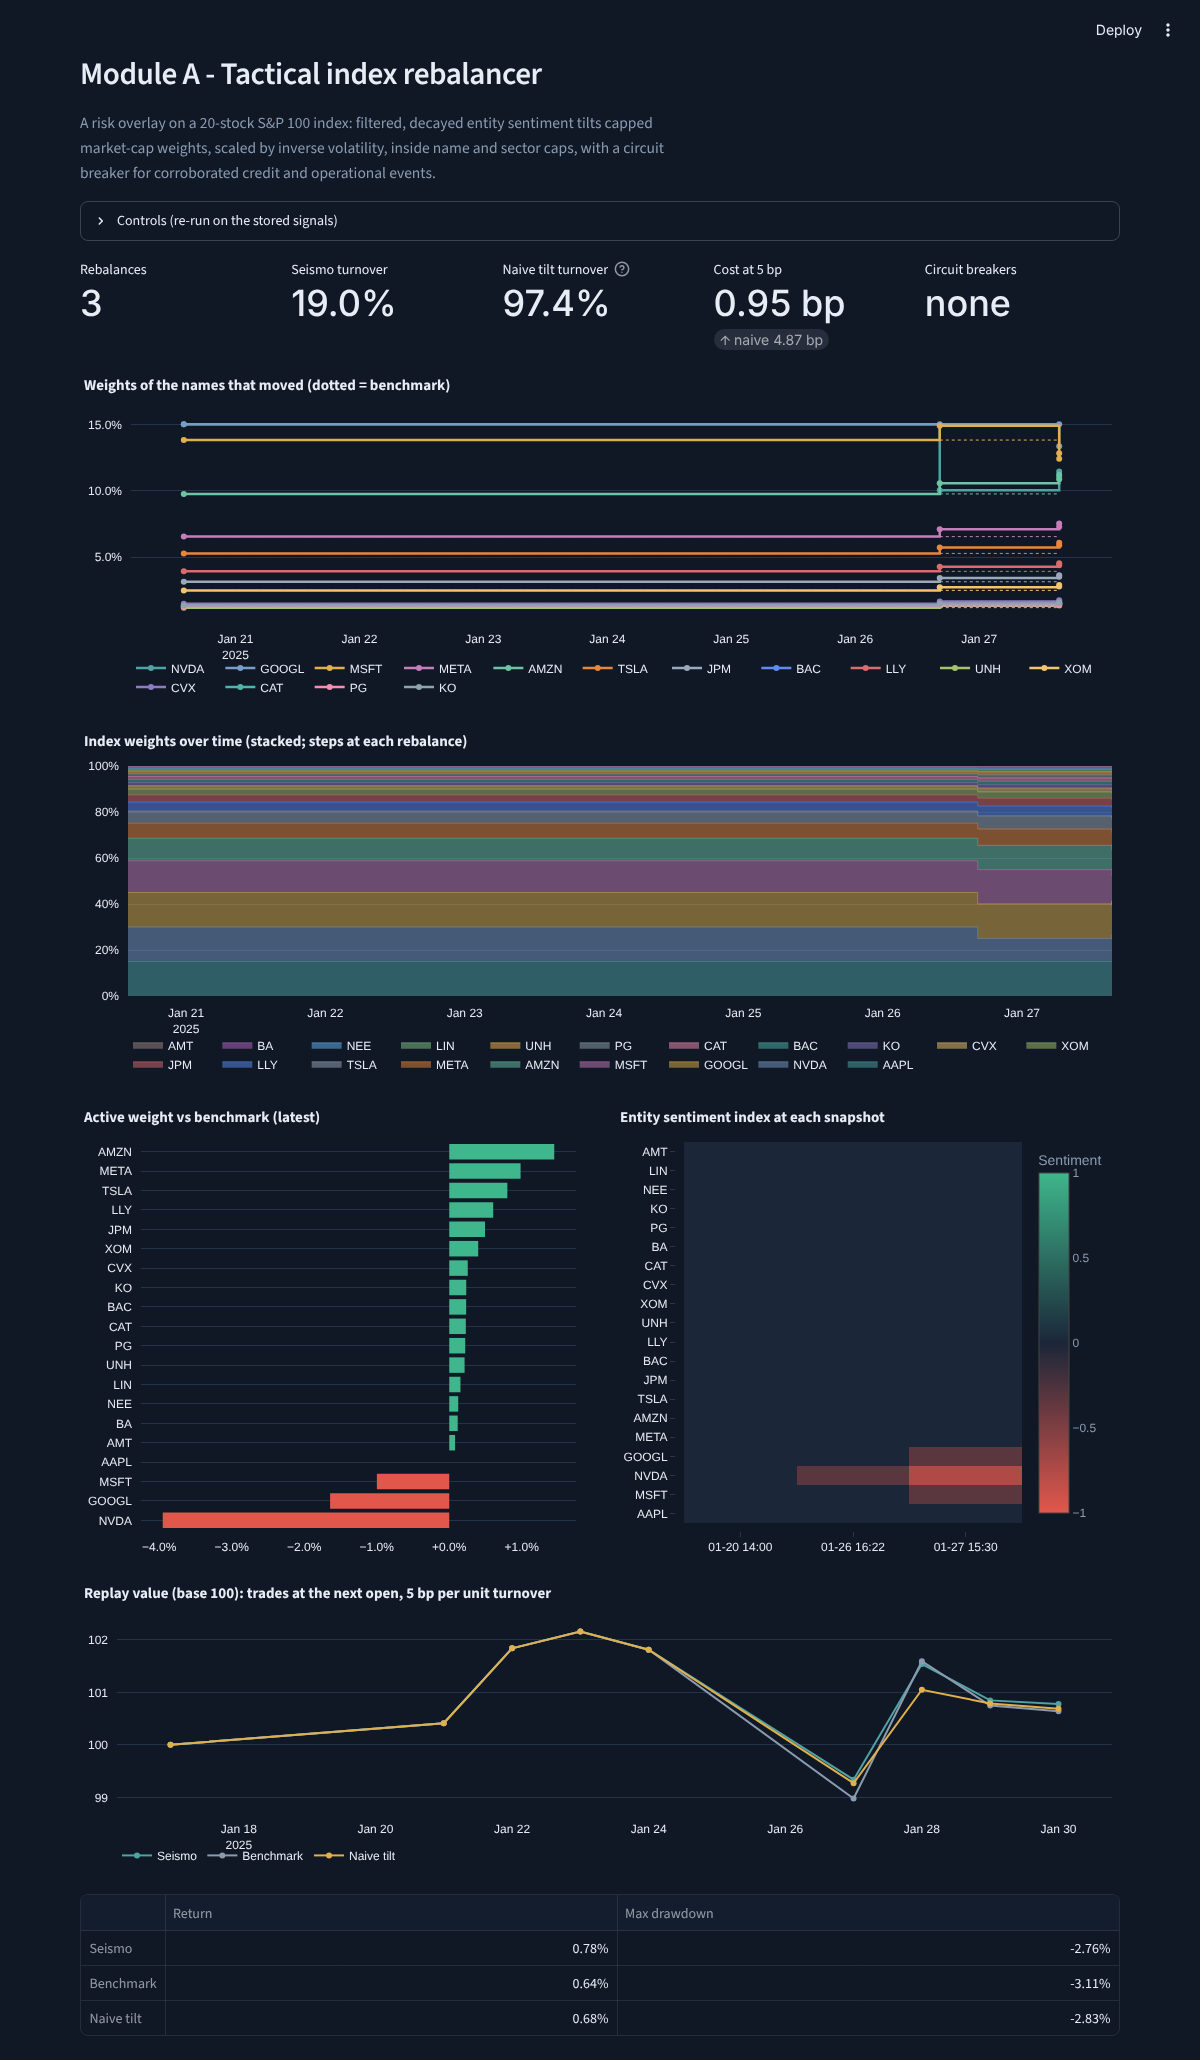
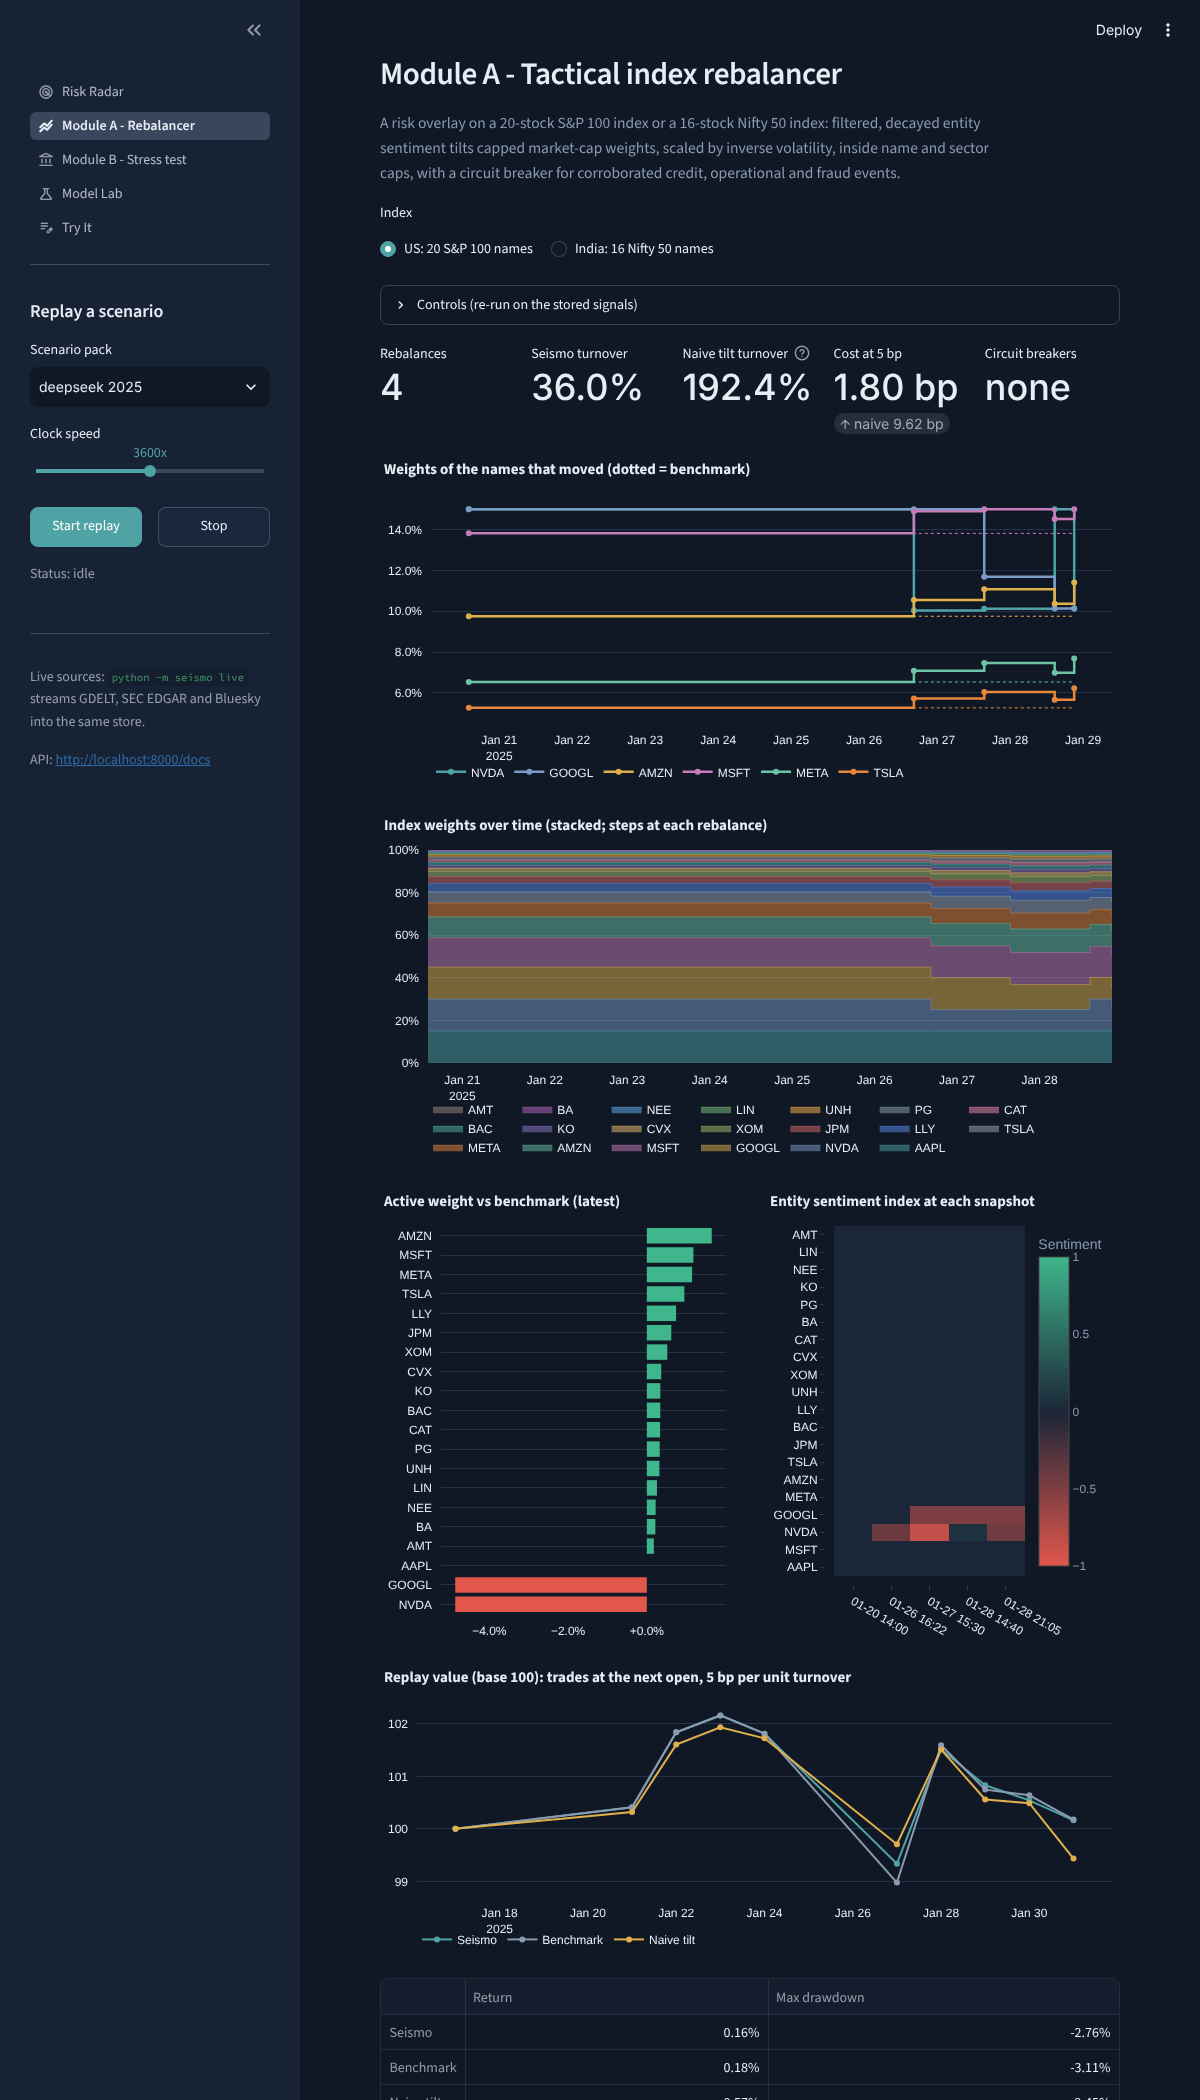
docs: model cards for the SEntFiN sentiment model, rules-v1 and contested denials; data cards; refreshed screenshots
Claude-Session: https://claude.ai/code/session_01VrPz1LG4mtA545VKJqXxte

diff --git a/docs/cards/model_sentiment.md b/docs/cards/model_sentiment.md
@@ -1,7 +1,26 @@
 # Model card: entity-level sentiment
 
-**Intended use.** Score how a piece of text reads for one named entity, from -1 (negative) to +1 (positive), with a confidence (1 minus normalised entropy).
-**How.** The engine scores only the sentence (and, when two companies share a sentence, the clause) that mentions the entity, so "Microsoft gains as Google loses" yields +/- rather than one blended score. Backends: `ProsusAI/finbert` (optional) or `lexicon-v2`: finance word lists, doubled weights for acute-stress words, negation, intensifiers and signed percentage moves.
-**Evaluation.** `make results`, gold set (author-labelled, 50 headlines): entity-window sign accuracy vs whole-document score. Financial PhraseBank evaluation needs Hugging Face access and is listed as next work.
-**Limitations.** The lexicon misses sarcasm and target-dependent phrases ("gains traction" for a rival). Not fine-tuned in this build; the target-masked fine-tune (SEntFiN, FiQA) is the planned upgrade.
-**Monitoring.** Model Lab shows the backend name on every signal (`model_versions`).
+**Intended use.** Score how a piece of text reads for one named company, from -1 (negative) to +1 (positive), with a confidence (1 minus normalised entropy). "Infosys gains while TCS slides" must give Infosys a positive score and TCS a negative one.
+
+**Model (default): `sentfin-target-lr-v1`.** A target-masked multinomial logistic regression trained on **SEntFiN 1.0** (Sinha et al., 2023): 10,709 Economic Times headlines with 14,345 entity-level labels.
+- The company being scored becomes the token `TGT`, every other linked company `OTH`, so the model learns relative position ("TGT beats OTH") rather than company names.
+- Features: word 1-2-grams of the masked sentence; the same words tagged "near" when within three tokens of `TGT`; the finance lexicon's three scores.
+- Weights are stored as JSON (`models/sentiment_target.json`) and scored in pure Python; a check at training time confirms the JSON scorer reproduces scikit-learn to about 1e-7.
+- CPU only, about 1 ms per document, no network, no GPU.
+
+**Evaluation (held-out test, `make sentiment`).** 80/20 by headline, seed 2026; C=8.0 by grouped 5-fold CV on train (macro-F1 0.7993).
+
+| System | Accuracy | Macro-F1 | Macro-F1, multi-entity | Macro-F1, conflicting |
+| --- | --- | --- | --- | --- |
+| Lexicon, whole headline (naive) | 0.610 | 0.608 | 0.562 | 0.456 |
+| Lexicon, entity window (Seismo v1) | 0.584 | 0.575 | 0.498 | 0.469 |
+| Trained, no target masking (ablation) | 0.783 | 0.785 | 0.719 | 0.508 |
+| Trained, target-masked (shipped) | 0.821 | 0.820 | 0.792 | 0.691 |
+
+Masking is what makes the model entity-aware: on headlines whose entities move in opposite directions it lifts macro-F1 from 0.51 (same model without masking) to 0.69. For reference, the SEntFiN paper reports about 93-94% for fine-tuned FinBERT and RoBERTa on GPU and about 85% for its best lexicon + gradient-boosting system; this model trades some accuracy for transparency and CPU speed.
+
+**Fallbacks.** `lexicon-v2` (finance word lists, doubled weights for acute-stress words, negation, intensifiers, signed percentage moves) runs in CI and whenever the model file is absent. `ProsusAI/finbert` is available on request (`sentiment.backend: finbert`).
+
+**Limitations.** Trained on Indian business headlines from 2011-2015, applied to US and Indian news; headlines only, so long articles are scored sentence by sentence. Sarcasm and multi-sentence reasoning are out of reach. Next: fine-tune a small transformer with the same masking.
+
+**Monitoring.** Every signal records the backend in `model_versions`; Model Lab shows the evaluation table.

diff --git a/docs/cards/data_cards.md b/docs/cards/data_cards.md
@@ -3,12 +3,16 @@
 | Data | Source | Licence | Synthetic | Notes |
 | --- | --- | --- | --- | --- |
 | `data/universe.csv` | SEC company_tickers.json for CIKs; aliases and issuer domains written by the author | Public / MIT | No | 20 S&P 100 names, 11 GICS sectors |
+| `data/universe_in.csv` | NSE symbols; aliases, domains and business group written by the author | Public / MIT | No | 16 Nifty 50 names (India index; Adani group tagged) |
 | `data/watchlist.csv` | Author | MIT | Partly | Regional banks for the SVB replay; "Harbor National Bank" is fictional |
-| `data/replay/svb_2023`, `deepseek_2025`, `tariff_2025` | Author, paraphrasing widely reported facts | MIT | Yes | Reconstructions; `.example` publishers (RFC 2606); invented social posts |
+| `data/replay/svb_2023`, `deepseek_2025`, `tariff_2025`, `adani_2023` | Author, paraphrasing widely reported facts | MIT | Yes | Reconstructions; `.example` publishers (RFC 2606); invented social posts |
 | `data/replay/red_team`, `quiet_day`, `demo_synthetic` | Author | MIT | Yes | Fictional |
+| `data/replay/*_gdelt.jsonl`, `data/gdelt/*.csv` | GDELT 2.0 event exports (15-minute files) | Free; cite GDELT | No | Real article URLs, publishers and GDELT timestamps for the SVB week, the Adani week and a quiet control week; headlines rebuilt from URL slugs |
+| `data/sentfin/SEntFiN-v1.1.csv` | SEntFiN 1.0 (Sinha et al., 2023), Kaggle | As published; research use with citation | No | 10,753 Economic Times headlines, 14,404 entity-level sentiment labels; trains the sentiment model |
 | `data/gold/headlines.jsonl` | Author | MIT | Yes | 50 labelled illustrative headlines |
 | `data/blotter/*` | `python -m seismo blotter` (seed 2026) | MIT | Yes | Invented exposures; public names only as obligors; internal ratings are synthetic, not agency ratings |
-| `data/market/prices_daily.csv`, `prices_open.csv`, `caps.csv` | Yahoo Finance via yfinance | Yahoo terms, research use | No | Fetched by `make data` |
+| `data/market/prices_daily.csv`, `prices_open.csv`, `shares_in.csv` | Yahoo Finance via yfinance | Yahoo terms, research use | No | US and NSE prices, Nifty 50, Nifty Bank; NSE shares outstanding. Fetched by `make data` |
+| `data/market/caps.csv` | SEC shares outstanding x last Yahoo close | Public / Yahoo terms | No | US benchmark caps |
 | `data/market/fred_daily.csv` | FRED (St. Louis Fed) | Public, cite FRED | No | Treasury curve, Baa/Aaa spreads, ICE BofA OAS where available |
 | `data/market/edgar_8k.csv` | SEC EDGAR submissions API | US government public data | No | 8-K item codes and acceptance times |
 | `data/market/analog_shocks.csv` | Computed by `make shocks` | MIT | No | Largest move per factor inside each crisis window |

diff --git a/docs/cards/model_gate_and_clusters.md b/docs/cards/model_gate_and_clusters.md
@@ -1,6 +1,8 @@
 # Model card: event clustering and the trigger gate
 
 **Clusters.** One entity and one event class within a rolling 24-hour chain form an event. Near-duplicates (MinHash >= 0.8) inherit the original publisher. Owner groups (e.g. WSJ, MarketWatch and Barron's) count once. Five or more accounts posting near-identical text within an hour form a coordinated group, which counts as one voice. Lookalike domains carrying a known brand are flagged and never corroborate.
-**Denials.** Denial language from an SEC filing, an authoritative wire or regulator, or the issuer's own domain marks the matched story as retracted; its weight in Module A drops to zero.
+**Denials.** Denial language from an SEC filing, an authoritative wire or regulator, or the issuer's own domain is matched to the live story it refers to. If the story is still unconfirmed (fewer than three independent newsrooms and no authoritative source), the denial retracts it and its weight in Module A drops to zero. If the story is already confirmed, the denial makes it *contested*: kept live, flagged, and still able to trigger. A rumour dies when it is denied; a confirmed story does not (the Adani group called the Hindenburg report baseless within hours, and its flagship shares then fell about 55%).
 **Gate.** TRIGGER only when impact >= 8, the class/subtype maps to an analog, confidence >= 0.7, and there are >= 3 independent publishers within 60 minutes or one authoritative source, and no denial. Otherwise REVIEW (human in the loop) or LOG.
-**Evaluation.** Replay scorecard in `make results`: triggers on SVB, DeepSeek and the tariff shock; holds and then retracts the red-team fake; no trigger on the quiet day; compared with a naive "10 x |sentiment| > 7" trigger.
+**Evaluation.** Replay scorecard in `make results`: triggers on SVB, DeepSeek, the tariff shock and Adani-Hindenburg (before the next NSE open, with the denial marked contested); holds and then retracts the red-team fake; no trigger on the quiet day; compared with a naive "10 x |sentiment| > 7" trigger.
+
+**Real news.** The same gate on real GDELT article URLs: one trigger in the SVB window, one in the Adani window, none in a quiet control window of 816 articles (naive rule: 48 stress tests).

diff --git a/docs/cards/model_event_classifier.md b/docs/cards/model_event_classifier.md
@@ -1,6 +1,6 @@
 # Model card: event classifier
 
 **Intended use.** Assign one of ten event classes (Macroeconomic, Geopolitical, Credit Event, M&A and Corporate Action, Product and Strategy, Earnings and Guidance, Legal and Regulatory, Operational and ESG, Management and Governance, Other) with a subtype and confidence.
-**How.** SEC 8-K item codes are authoritative labels (1.03 bankruptcy, 1.05 cyber incident, 2.02 results, 4.02 restatement, 5.02 officer change). Other text uses weighted, title-boosted regular-expression rules. At event level the class is a credibility-weighted vote across the story's reports; commentary (Other) neither wins nor dilutes.
-**Evaluation.** Gold-set accuracy vs the majority class in `make results` (in-sample for the rules: a sanity check, not a benchmark).
-**Limitations.** Rules miss novel phrasing. Planned upgrade: an embedding classifier trained on 8-K weak labels and LLM-labelled headlines, with the LLM limited to the uncertain tail.
+**How.** SEC 8-K item codes are authoritative labels (1.03 bankruptcy, 1.05 cyber incident, 2.02 results, 4.02 restatement, 5.02 officer change). Other text uses weighted, title-boosted regular-expression rules. At event level the class is a credibility-weighted vote across the story's reports; commentary (Other) neither wins nor dilutes. A short seller's fraud report is MANAGEMENT_GOVERNANCE/FRAUD_ALLEGATION, mapped to the Adani-Hindenburg analog.
+**Evaluation.** Gold-set accuracy vs the majority class in `make results` (in-sample for the rules: a sanity check). On real GDELT news, rules-v0 missed the SVB window because real headlines ("Silicon Valley Bank Startups Panic", "California Regulator Shuts Silicon Valley Bank") fell into Other. rules-v1 adds bank-crisis vocabulary next to "bank" and regulators closing or taking control of a bank; the SVB real-news row is therefore no longer out-of-sample, and this is stated wherever it is reported. The Adani and control windows give identical results under v0 and v1.
+**Limitations.** Rules miss novel phrasing; this is the weakest component on real headlines. Planned upgrade: an embedding classifier trained on 8-K weak labels and labelled headlines.
